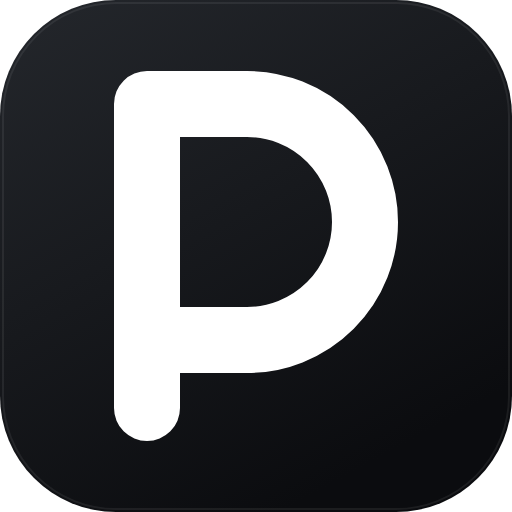
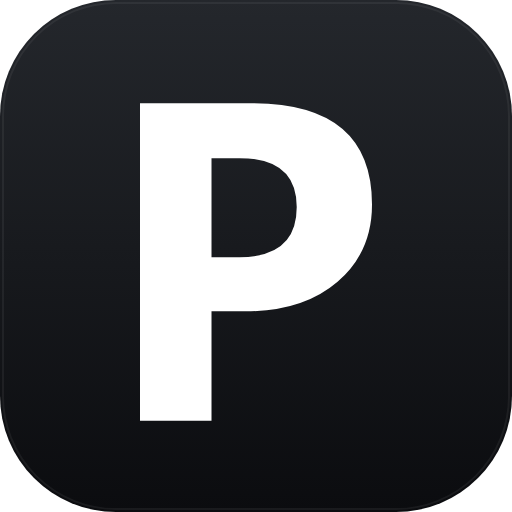
style(ui): 品牌图标改用现代无衬线实心 P（Segoe UI Bold 字形）
上一版用描边骨架画 P，视觉偏单薄。改为取 Segoe UI Bold 的真实字形轮廓（已转纯路径、不依赖字体），墨色圆角砖 + 白色实心 P，16px 到 512px 都清晰；深色主题经令牌自动反相为近白砖 + 墨字。三端 favicon / PWA / apple-touch 全套资产同步重生成。

Changed region(s): [[0.2188, 0.125, 0.7812, 0.875]]

diff --git a/frontend/packages/ui/src/brand/brand-mark.tsx b/frontend/packages/ui/src/brand/brand-mark.tsx
@@ -1,11 +1,11 @@
 import { cn } from 'cn'
 
 /**
- * 品牌字标：圆角方砖 + 几何 P。
+ * 品牌字标：墨色圆角砖 + 实心几何 P。
  *
- * <p>这是「这是一件产品」最便宜也最稳的信号：一块墨色圆角砖，里面一个用单笔描边画出来的
- * 几何 P（圆头圆角、留白克制），在 16px 的标签页与 64px 的首屏同样立得住。字形不依赖字体，
- * 换机器、换字号都不会走样——旧实现直接取 `title.slice(0,1)` 当字模，本质是把字体当 logo。
+ * <p>字形来自 Segoe UI Bold 的「P」，取真实字形轮廓（不是描边骨架），所以笔画是有粗细变化的
+ * 实心形，在小尺寸与放大时都立得住，不会像描边字母那样显得单薄。字形已转成纯路径、不依赖字体，
+ * 换机器、换字号都不走样——旧实现直接取 `title.slice(0,1)` 当字模，本质是把字体当 logo。
  *
  * <p>**颜色只来自令牌**（`bg-primary` / `text-primary-foreground`），所以明暗主题自动反相：
  * 浅色下是深墨砖白字，深色下是近白砖深字；字标用 `currentColor` 绘制，跟着前景色走。
@@ -34,20 +34,16 @@ export function BrandMark({
         'text-primary-foreground from-primary to-primary/85 inline-flex shrink-0 items-center justify-center bg-gradient-to-br',
         className,
       )}
-      style={{ width: size, height: size, borderRadius: Math.round(size * 0.22) }}
+      style={{ width: size, height: size, borderRadius: Math.round(size * 0.225) }}
     >
       {/*
-        viewBox 512：字标路径自带约 14% 的内边距（上下），落进方形砖后高度约占 70%，
-        是方图标里字标的常见占比。stroke 用 currentColor，颜色由父级文字色决定。
+        viewBox 512：字形路径已按约 19% 内边距缩放并居中（See build_icons.py），
+        高度约占砖块 62%，是方图标里字标的常见占比。fill 用 currentColor，颜色由父级文字色决定。
       */}
       <svg viewBox="0 0 512 512" width={size} height={size} aria-hidden focusable="false">
         <path
-          d="M147 408 V104 h100 a118 118 0 0 1 0 236 h-100"
-          fill="none"
-          stroke="currentColor"
-          strokeWidth={66}
-          strokeLinecap="round"
-          strokeLinejoin="round"
+          d="M211.51 311.36V420.72H140.00V103.28H252.02Q372.00 103.28 372.00 204.44Q372.00 252.26 337.57 281.81Q303.15 311.36 245.60 311.36ZM211.51 158.18V257.13H239.62Q296.73 257.13 296.73 207.10Q296.73 158.18 239.62 158.18Z"
+          fill="currentColor"
         />
       </svg>
     </span>
